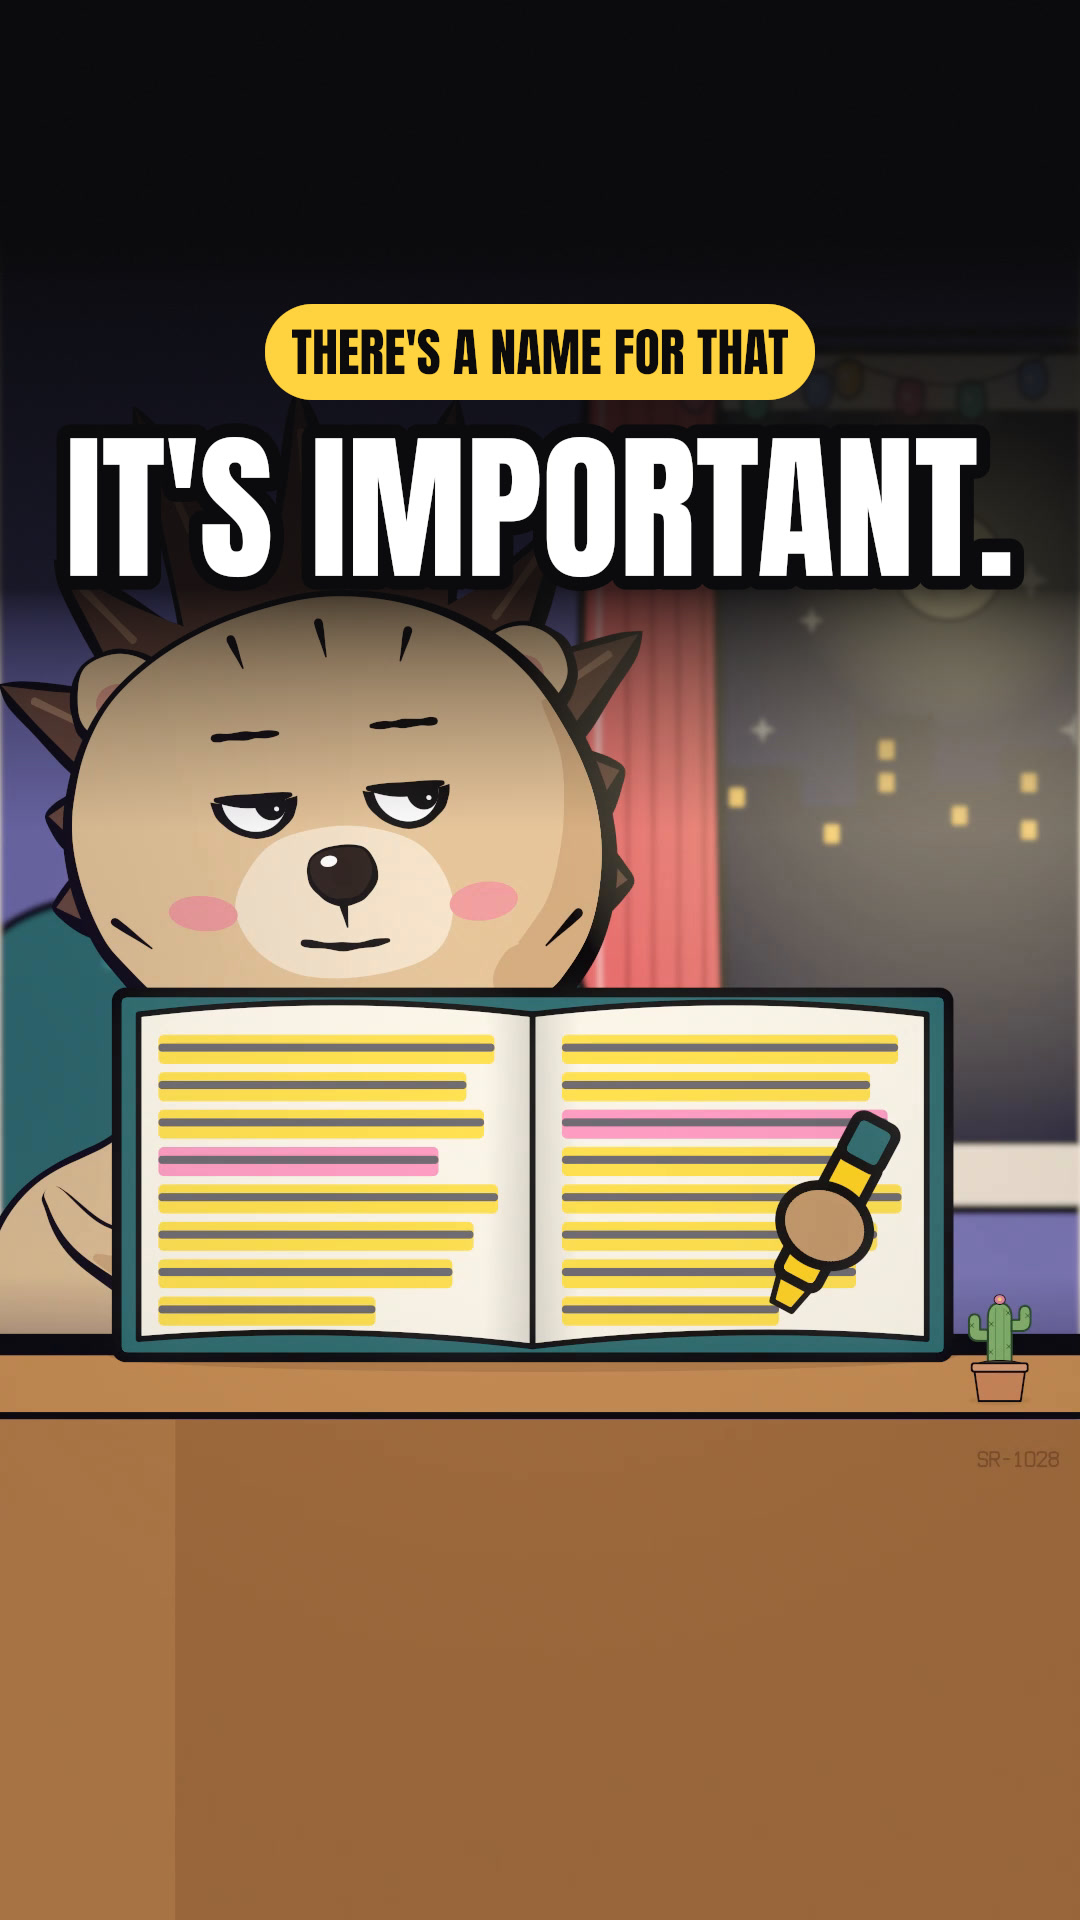
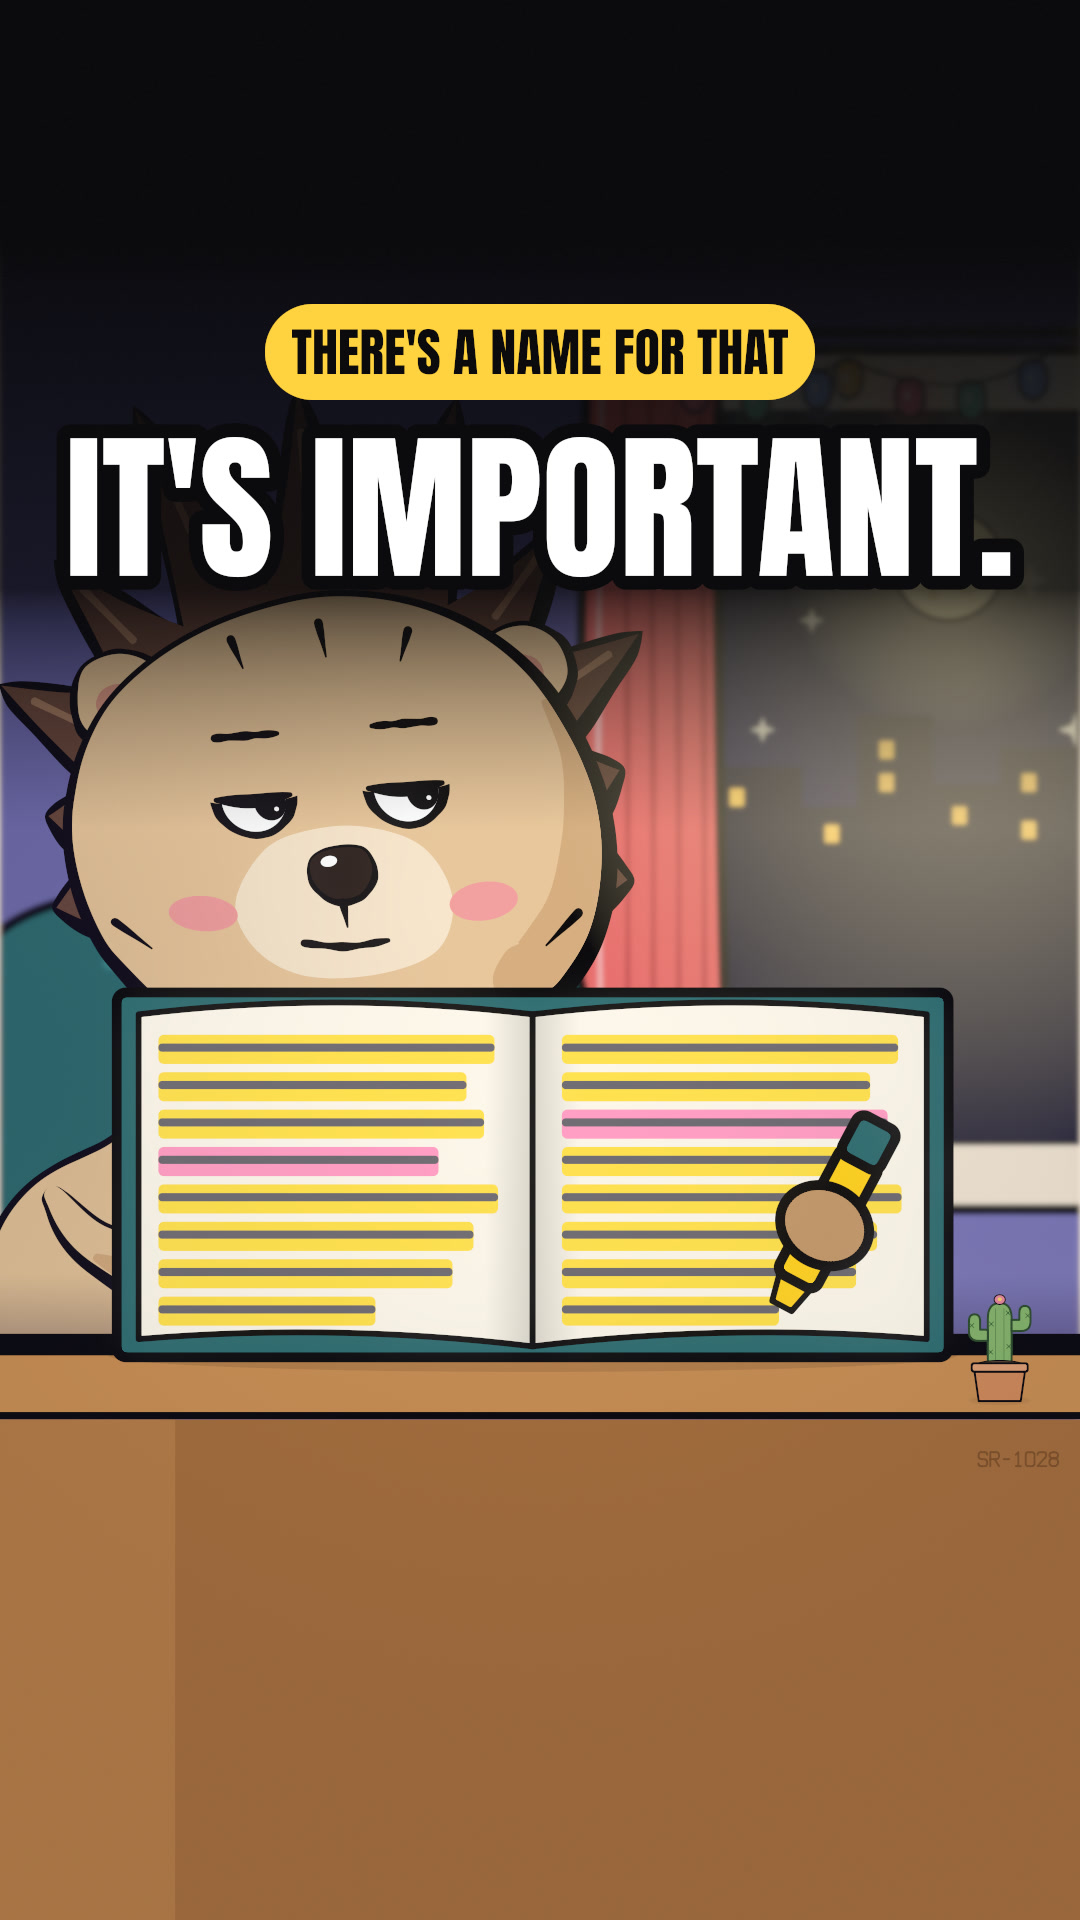
fix(mind): the learning-styles cover keeps its open book
The cover frame moved with the beats and landed just after the book shuts,
which loses the highlighted page the headline is about. The frame moves
back before the shut, with a test, and the notes carry the new name
positions and length.

diff --git a/tests/test_learning_styles_pilot.py b/tests/test_learning_styles_pilot.py
@@ -215,3 +215,7 @@ def test_no_sheet_lands_on_another_ones_words():
     for k, (left, top, right, bottom) in enumerate(sheets):
         for other_left, other_top, other_right, other_bottom in sheets[k + 1 :]:
             assert right <= other_left or other_right <= left or bottom <= other_top or other_bottom <= top
+
+
+def test_the_cover_shows_the_open_book():
+    assert pilot.POST.thumbnail.at < sketch.events(pilot.SKETCH.beats, "shut")[0][0]

diff --git a/episodes/pilots/learning_styles_data.py b/episodes/pilots/learning_styles_data.py
@@ -475,5 +475,5 @@ POST = InstagramPost(
     ),
     credit="Voices: ElevenLabs premade voices Bella, Jessica and Laura. Original characters, drawn in code.",
     hashtags=("#psychology", "#learningstyles", "#howpeoplethink", "#studytips"),
-    thumbnail=Thumbnail("It's important.", 36.25, "There's a name for that", place="top"),
+    thumbnail=Thumbnail("It's important.", 35.9, "There's a name for that", place="top"),
 )

diff --git a/pilots/mind/learning-styles/notes.md b/pilots/mind/learning-styles/notes.md
@@ -50,9 +50,9 @@ its thinner lens glass came from `feat/mind`. All effects are synthesised.
 
 ## What I would change
 
-- The name lands early: the catchphrase at 33% and the reveal at 35%, against a target near 40%. The reel is already at
+- The name lands early: the catchphrase at 33% and the reveal at 36%, against a target near 40%. The reel is already at
   the 45 second limit, so holding the opening longer would need a cut after the name.
-- The reel is exactly at the limit, 45.0 seconds. Dropping "Note the last word." would buy room, but the underline is what
+- The reel runs 44.4 seconds, just under the limit. Dropping "Note the last word." would buy room, but the underline is what
   makes the name a joke and not a label.
 - The narrator carries a lot in the middle. The evidence and its caveat are two long lines, and a viewer who only wants
   the joke waits from about 24 to 37 seconds for the hedgehog to come back.

diff --git a/pilots/mind/peak-end-rule/notes.md b/pilots/mind/peak-end-rule/notes.md
@@ -50,7 +50,7 @@ draw what was drawn before: `mind_kit.memory_shelf(also=)` pulls more than one f
 
 ## What I would change
 
-- The name lands at 37% of the way in, a little ahead of the 40% target, and the card opens at 34%. Holding longer on
+- The name lands at 38.4% of the way in, a little ahead of the 40% target, and the card opens at 35%. Holding longer on
   the hearts would close that gap at the cost of pace.
 - There is no room tone. The two comic pauses, 5.73 to 7.10 s and 13.06 to 14.20 s, are near digital silence at -91 dB.
   Quiet restaurant noise under the booth shots would keep them from sounding like dropouts.

diff --git a/pilots/mind/spotlight-effect/notes.md b/pilots/mind/spotlight-effect/notes.md
@@ -42,5 +42,5 @@ pilot. The channel sting is a function, not a registered part.
   shirt, but a clothing layer under the arms would be cleaner if shirts come back in the series.
 - The goat's clipboard covers his mouth while he speaks, so his lip sync does not show until it drops. A smaller board
   set lower would show it.
-- The name lands at 37% of the way in, a little ahead of the 40% target. A longer hold on her reaction would close that
+- The name lands at 38.4% of the way in, a little ahead of the 40% target. A longer hold on her reaction would close that
   gap, at the cost of pace.

diff --git a/pilots/mind/planning-fallacy/notes.md b/pilots/mind/planning-fallacy/notes.md
@@ -48,7 +48,7 @@ in `srstudio.foley`, not a registered part.
 
 ## What I would change
 
-- The name lands at 37.8% of the way in, a little ahead of the 40% target. A fourth voice note would close the gap, at
+- The name lands at 38.7% of the way in, a little ahead of the 40% target. A fourth voice note would close the gap, at
   the cost of pace.
 - The narrator never says "on average". The bars do, on screen, so a viewer listening without looking loses that word.
 - The opening shows no line until 0.4 s, because the water has to run first. It is the only stretch of the hook with no
